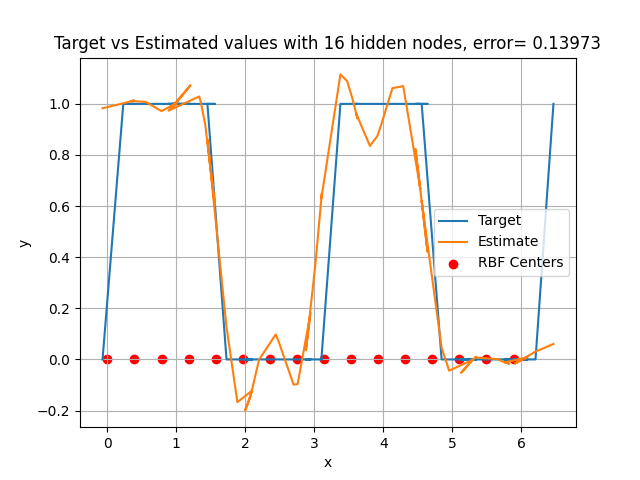
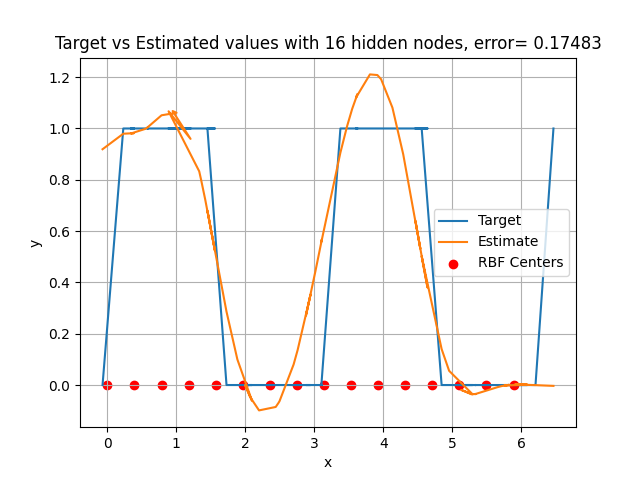
add delta for rbf

diff --git a/lab2/rbf_delta_test.py b/lab2/rbf_delta_test.py
@@ -1,0 +1,93 @@
+from rbf import RBF
+from dataset import SinusData
+from dataset import SquareData
+import matplotlib.pyplot as plt
+import numpy as np
+
+def experiment(data, n_nodes, error, n, weight=1.0):
+    rbf_net = RBF(n=n, weight=weight)
+    _, err = rbf_net.batch_learning(
+        data.x, data.y, data.x_test, data.y_test)
+    n_nodes.append(rbf_net.n_nodes)
+    error.append(err)
+
+def experiment2(data, n_nodes, error, n):
+    rbf_net = RBF(n=n)
+    rbf_net.centers = np.linspace(0, 2*np.pi, n)
+    rbf_net.n_nodes = n
+    rbf_net.set_sigmas(0.5)
+    _, err = rbf_net.batch_learning(
+        data.x, data.y, data.x_test, data.y_test)
+    n_nodes.append(rbf_net.n_nodes)
+    error.append(err)
+
+def experiment_nodes(data):
+    error = []
+    n_nodes = []
+    for i in range(8,40):
+        # experiment(data, n_nodes, error, n=i, weight=1.0)
+        # experiment_delta(data, n_nodes, error, n=i, weight=1.0)
+        # experiment2(data, n_nodes, error, n=i)
+        experiment2_delta(data, n_nodes, error, n=i)
+
+    return error, n_nodes
+
+def experiment_delta(data, n_nodes, error, n, weight=1.0):
+    rbf_net = RBF(n=n, weight=weight)
+    _, err = rbf_net.delta_learning(
+        data.x, data.y, data.x_test, data.y_test)
+    n_nodes.append(rbf_net.n_nodes)
+    error.append(err)
+
+def experiment2_delta(data, n_nodes, error, n):
+    rbf_net = RBF(n=n)
+    rbf_net.centers = np.linspace(0, 2*np.pi, n)
+    rbf_net.n_nodes = n
+    rbf_net.set_sigmas(0.5)
+    _, err = rbf_net.delta_learning(
+        data.x, data.y, data.x_test, data.y_test)
+    n_nodes.append(rbf_net.n_nodes)
+    error.append(err)
+
+def plot_error(n_nodes, error, data):
+    plt.scatter(n_nodes, error)
+    plt.xlabel("number of hidden nodes")
+    plt.ylabel("absolute residual error")
+    plt.title("Absolute Residual Error vs number of hidden nodes")
+    plt.legend()
+    plt.savefig(f"images/3.1/{data}_error2_{len(n_nodes)}.png")
+    plt.show()
+
+
+def plot_estimate(data, type, n=3):
+    rbf_net = RBF(n=n)
+    y_hat, error = rbf_net.delta_learning(
+        data.x, data.y, data.x_test, data.y_test)
+    centers, n_nodes = rbf_net.centers, rbf_net.n_nodes
+    plt.plot(data.x_test, data.y_test, label="Target")
+    plt.plot(data.x_test, y_hat, label="Estimate")
+    plt.scatter(centers, [0]*n_nodes, c="r", label="RBF Centers")
+    plt.xlabel("x")
+    plt.ylabel("y")
+    plt.title(f'Target vs Estimated values with {n_nodes} hidden nodes, error= {round(error,5)}')
+    plt.legend()
+    plt.grid(True)
+    plt.savefig(f"images/3.1/{type}/{type}_{n_nodes}.png")
+    plt.show()
+
+
+sin_data = SinusData(noise=False)
+# error, n_nodes = experiment_nodes(sin_data)
+# plot_error(n_nodes, error, "sinus")
+# plot_error(n_nodes, error, "sinus_delta")
+plot_estimate(sin_data, type="sinus", n=3)
+
+
+sqr_data = SquareData(noise=True)
+# error, n_nodes = experiment_nodes(sqr_data)
+# plot_error(n_nodes, error, "square")
+# plot_error(n_nodes, error, "square_delta")
+
+plot_estimate(sqr_data, type="square", n=2)
+
+

diff --git a/lab2/rbf.py b/lab2/rbf.py
@@ -1,10 +1,11 @@
 import numpy as np
 import matplotlib.pyplot as plt
+from sklearn.utils import shuffle
 
 
 class RBF():
     def __init__(self, n=1, drop=2**9-1, weight=1, sigma=0.5):
-        
+
         self.set_centers(n, drop, weight)
         self.set_sigmas(sigma)
 
@@ -14,25 +15,40 @@ class RBF():
         phi = np.exp(-(x_matrix-centers_matrix)**2 / (2*self.sigmas**2))
         plt.show()
         return phi
-    
+
     def batch_learning(self, x, f, x_test, f_test):
-        # compute phi 
+        # compute phi
         phi = self.compute_phi(x)
         # find the weights that minimize the total error = |phi W - f|^2
         w = np.linalg.solve(phi.T @ phi, phi.T @ f)
-        # Evaluate the error 
+        # Evaluate the error
         phi_test = self.compute_phi(x_test)
         f_hat = phi_test @ w
         error = np.mean(abs(f_hat-f_test))
-        return f_hat, error 
+        return f_hat, error
+
+    def delta_learning(self, X, f, X_test, f_test, lr=0.01, max_iters=250, seed=42):
+        weights = np.random.default_rng(seed).normal(0, 0.5, self.n_nodes)
+        for _ in range(max_iters):
+            X, f = shuffle(X, f)
+            for idx, x in enumerate(X):
+                phi = self.compute_phi(np.array([x]))
+                weight_update = (
+                    lr*(np.array(f[idx]) - phi @ weights[:, None]) @ phi).flatten()
+                weights += weight_update
+
+        phi_test = self.compute_phi(X_test)
+        f_hat = phi_test @ weights
+        error = np.mean(abs(f_hat-f_test))
+        return f_hat, error
 
     def set_centers(self, n, drop, weight):
-        x_line = np.linspace(0,2, 9)*np.pi
-        
-        if n==0:
+        x_line = np.linspace(0, 2, 9)*np.pi
+
+        if n == 0:
             self.centers = x_line[1::2]
             self.n_nodes = len(self.centers)
-            return 
+            return
 
         self.centers = np.array([])
 
@@ -43,6 +59,6 @@ class RBF():
 
         self.centers = np.sort(self.centers)
         self.n_nodes = len(self.centers)
-    
+
     def set_sigmas(self, sigma):
         self.sigmas = np.full(self.n_nodes, sigma)
